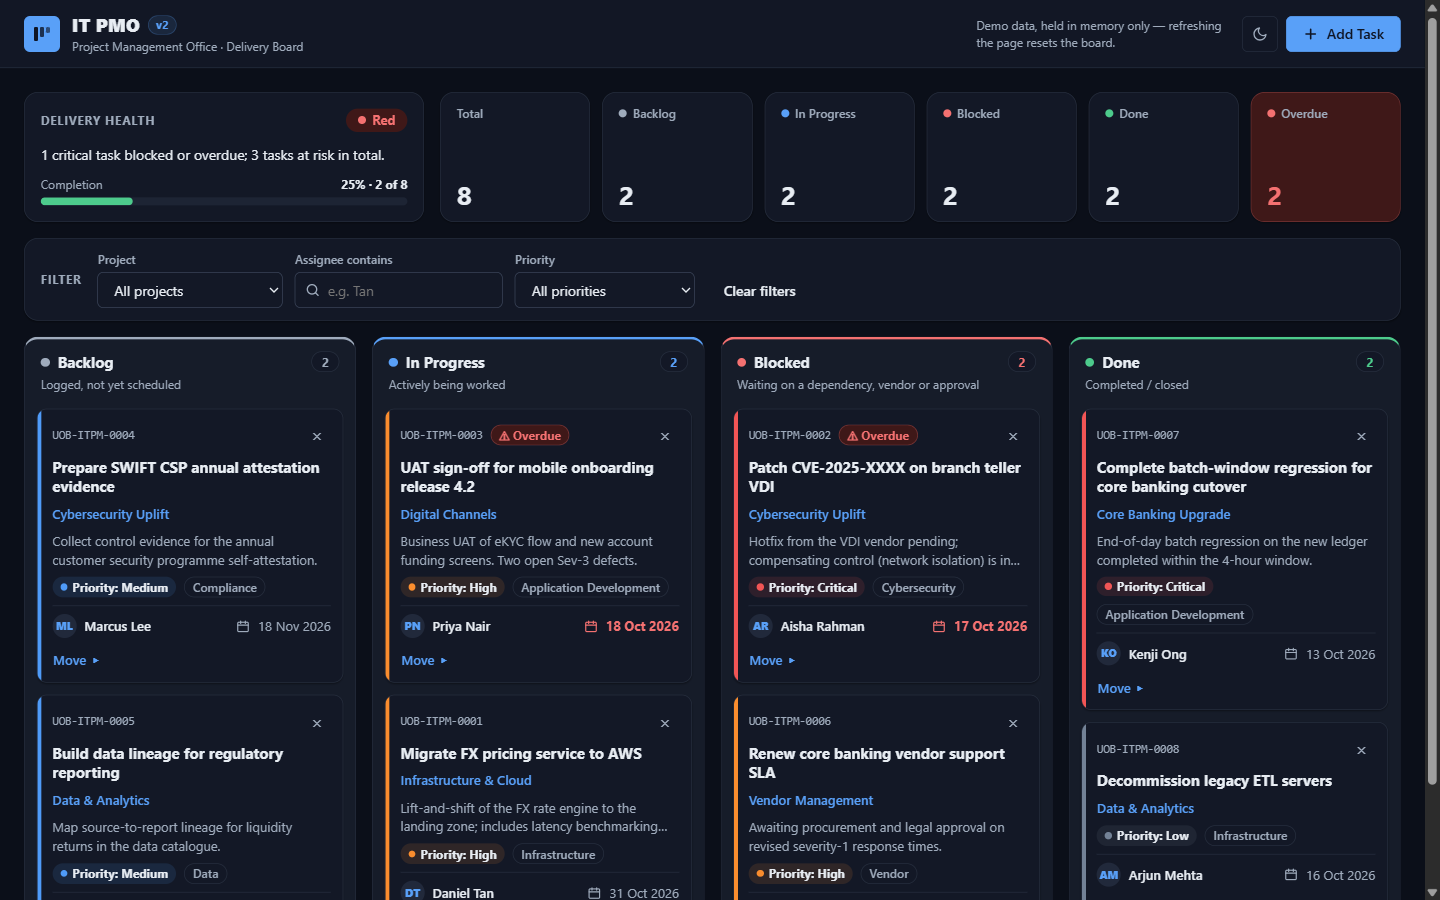
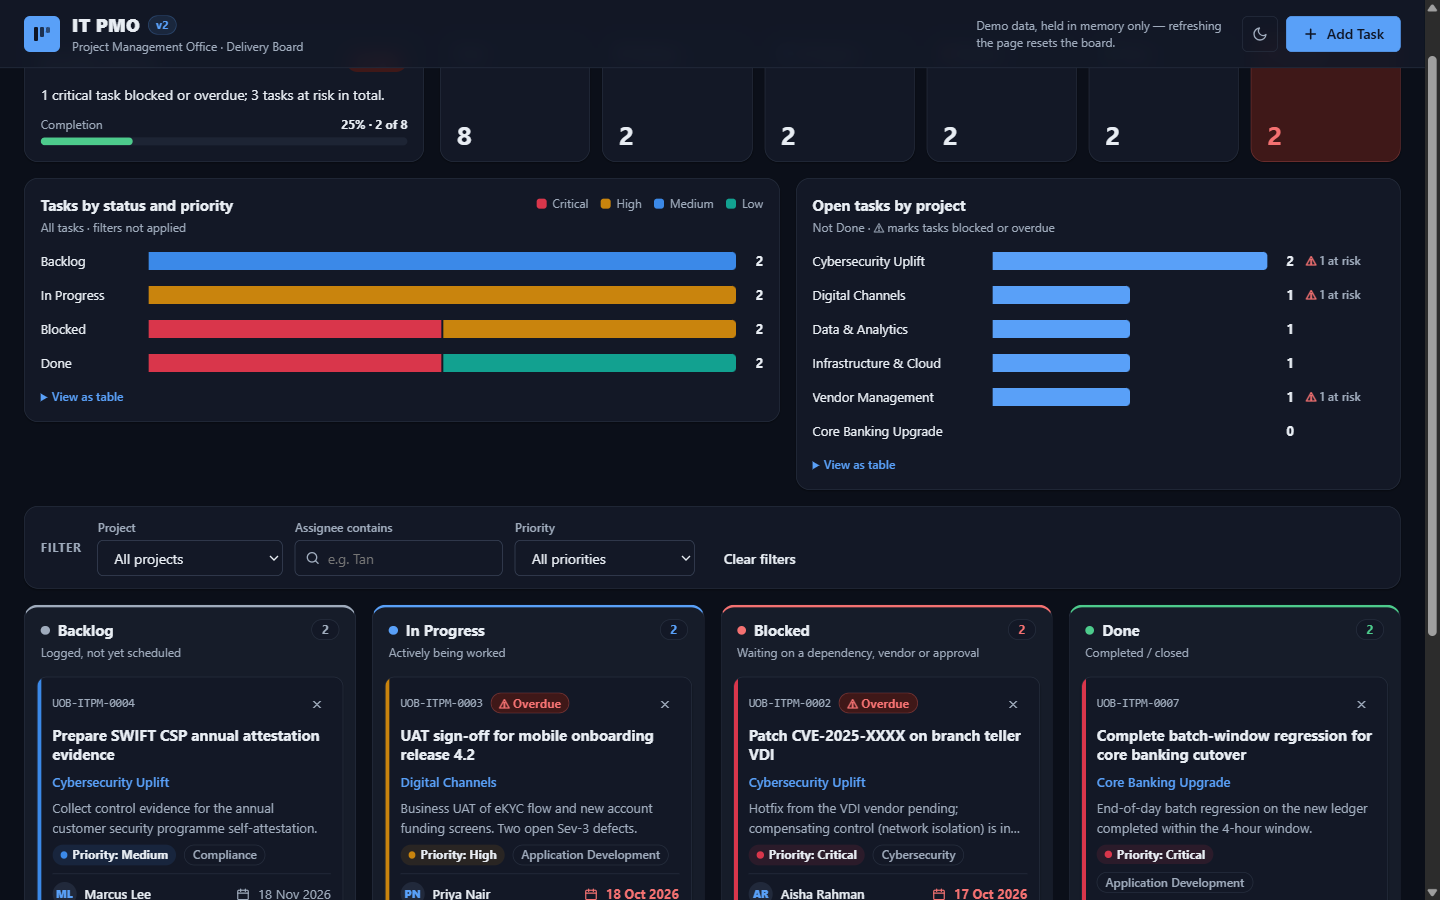
Add status summary charts to v2
Add two charts under the overview: tasks by status stacked by priority,
and open tasks by project with a blocked/overdue count. Plain HTML/CSS
bars on one shared grid, hover tooltips, aria-label summaries and a
"View as table" fallback. Retune the --prio-* tokens (Low is now teal;
dark steps re-stepped) so the shared card/chart palette passes the
lightness, chroma, CVD and contrast checks in both themes.

diff --git a/index.html b/index.html
@@ -31,11 +31,13 @@
   --warning: 30 90% 36%;      --warning-soft: 40 100% 92%;
   --success: 152 62% 30%;     --success-soft: 145 50% 92%;
 
-  /* Priority marks */
+  /* Priority marks — also the status chart's categorical palette, in this
+     fixed order (validated for lightness, chroma, CVD and contrast on the
+     card surface in both themes) */
   --prio-critical: 0 72% 48%;
   --prio-high: 28 92% 48%;
   --prio-medium: 213 72% 48%;
-  --prio-low: 215 14% 62%;
+  --prio-low: 173 58% 39%;
 
   /* Spacing scale */
   --space-1: 4px;
@@ -77,10 +79,10 @@
     --destructive: 0 85% 70%;   --destructive-soft: 0 45% 17%;
     --warning: 38 95% 62%;      --warning-soft: 38 50% 15%;
     --success: 150 55% 55%;     --success-soft: 150 40% 14%;
-    --prio-critical: 0 85% 64%;
-    --prio-high: 28 95% 58%;
-    --prio-medium: 213 92% 64%;
-    --prio-low: 215 14% 52%;
+    --prio-critical: 352 68% 53%;
+    --prio-high: 38 88% 42%;
+    --prio-medium: 213 79% 57%;
+    --prio-low: 173 80% 35%;
     --shadow-sm: 0 1px 2px hsl(0 0% 0% / 0.4);
     --shadow: 0 1px 3px hsl(0 0% 0% / 0.45), 0 4px 12px hsl(0 0% 0% / 0.3);
     --shadow-lg: 0 16px 40px hsl(0 0% 0% / 0.6);
@@ -105,10 +107,10 @@
   --destructive: 0 85% 70%;   --destructive-soft: 0 45% 17%;
   --warning: 38 95% 62%;      --warning-soft: 38 50% 15%;
   --success: 150 55% 55%;     --success-soft: 150 40% 14%;
-  --prio-critical: 0 85% 64%;
-  --prio-high: 28 95% 58%;
-  --prio-medium: 213 92% 64%;
-  --prio-low: 215 14% 52%;
+  --prio-critical: 352 68% 53%;
+  --prio-high: 38 88% 42%;
+  --prio-medium: 213 79% 57%;
+  --prio-low: 173 80% 35%;
   --shadow-sm: 0 1px 2px hsl(0 0% 0% / 0.4);
   --shadow: 0 1px 3px hsl(0 0% 0% / 0.45), 0 4px 12px hsl(0 0% 0% / 0.3);
   --shadow-lg: 0 16px 40px hsl(0 0% 0% / 0.6);
@@ -364,6 +366,84 @@ main { padding: var(--space-5) var(--space-5) var(--space-6); max-width: 1600px;
 .stat-overdue  { --stat: var(--warning); }
 .stat-overdue.is-alert { --stat: var(--destructive); background: hsl(var(--destructive-soft)); border-color: hsl(var(--destructive) / 0.3); }
 .stat-overdue.is-alert strong { color: hsl(var(--destructive)); }
+
+/* =====================================================================
+   4b. STATUS CHARTS — stacked bars (status × priority), project workload
+   ===================================================================== */
+.charts {
+  display: grid;
+  grid-template-columns: 1.25fr 1fr;
+  align-items: start;
+  gap: var(--space-4);
+  margin-bottom: var(--space-4);
+}
+.chart { display: flex; flex-direction: column; gap: var(--space-3); margin: 0; padding: var(--space-4); min-width: 0; }
+.chart-head { display: flex; flex-wrap: wrap; align-items: flex-start; justify-content: space-between; gap: var(--space-2) var(--space-4); }
+.chart-title { font-size: 15px; font-weight: 700; }
+.chart-sub { margin-top: 2px; font-size: 12px; color: hsl(var(--muted-foreground)); }
+.legend { display: flex; flex-wrap: wrap; gap: var(--space-1) var(--space-3); margin: 0; padding: 0; list-style: none; }
+.legend li { display: flex; align-items: center; gap: 6px; font-size: 12px; color: hsl(var(--muted-foreground)); }
+.swatch { width: 10px; height: 10px; border-radius: 3px; background: hsl(var(--prio)); }
+
+/* One shared grid per chart so every row's bar track has the same length */
+.bars {
+  display: grid;
+  grid-template-columns: 96px minmax(0, 1fr) auto;
+  align-items: center;
+  gap: var(--space-2) var(--space-3);
+  font-size: 13px;
+}
+.bars-project { grid-template-columns: minmax(110px, 168px) minmax(0, 1fr) auto minmax(78px, auto); }
+.bar-row { display: contents; }
+.bar-label { color: hsl(var(--foreground)); overflow: hidden; text-overflow: ellipsis; white-space: nowrap; }
+.bar-track { display: flex; align-items: center; height: 26px; }
+.bar {
+  display: flex;
+  gap: 2px;
+  height: 18px;
+  min-width: 0;
+  border-radius: 0 4px 4px 0;
+  overflow: hidden;
+  transition: width 300ms ease;
+}
+.seg { --prio: var(--prio-medium); min-width: 3px; height: 100%; background: hsl(var(--prio)); cursor: default; }
+.seg:last-child { border-radius: 0 4px 4px 0; }
+.seg:hover { filter: brightness(1.12); }
+.seg.prio-critical, .swatch.prio-critical { --prio: var(--prio-critical); }
+.seg.prio-high,     .swatch.prio-high     { --prio: var(--prio-high); }
+.seg.prio-medium,   .swatch.prio-medium   { --prio: var(--prio-medium); }
+.seg.prio-low,      .swatch.prio-low      { --prio: var(--prio-low); }
+.seg-open { --prio: var(--primary); }
+.bar-value { min-width: 2ch; font-weight: 700; font-variant-numeric: tabular-nums; text-align: right; white-space: nowrap; }
+.bar-note { font-size: 12px; font-weight: 600; color: hsl(var(--muted-foreground)); white-space: nowrap; }
+.bar-note .warn-icon { color: hsl(var(--destructive)); }
+
+.chart-table summary {
+  width: fit-content;
+  font-size: 12px;
+  font-weight: 600;
+  color: hsl(var(--primary));
+  cursor: pointer;
+}
+.table-wrap { overflow-x: auto; margin-top: var(--space-2); }
+.chart-table table { width: 100%; border-collapse: collapse; font-size: 13px; font-variant-numeric: tabular-nums; }
+.chart-table th, .chart-table td { padding: 4px var(--space-2); border-bottom: 1px solid hsl(var(--border)); text-align: right; white-space: nowrap; }
+.chart-table th:first-child, .chart-table td:first-child { text-align: left; }
+.chart-table thead th { font-size: 12px; color: hsl(var(--muted-foreground)); font-weight: 600; }
+
+.chart-tip {
+  position: fixed;
+  z-index: 60;
+  padding: 6px var(--space-2);
+  border: 1px solid hsl(var(--border));
+  border-radius: var(--radius-sm);
+  background: hsl(var(--card));
+  box-shadow: var(--shadow);
+  font-size: 12px;
+  pointer-events: none;
+  white-space: nowrap;
+}
+.chart-tip strong { font-variant-numeric: tabular-nums; }
 
 /* =====================================================================
    5. FILTER TOOLBAR
@@ -719,6 +799,9 @@ main { padding: var(--space-5) var(--space-5) var(--space-6); max-width: 1600px;
 @media (max-width: 1200px) {
   .overview { grid-template-columns: 1fr; }
 }
+@media (max-width: 1000px) {
+  .charts { grid-template-columns: 1fr; }
+}
 @media (max-width: 1100px) {
   .control { min-width: 150px; }
 }
@@ -731,6 +814,8 @@ main { padding: var(--space-5) var(--space-5) var(--space-6); max-width: 1600px;
   .stat strong { font-size: 22px; }
   .board { grid-template-columns: 1fr; }
   .column { min-height: 0; }
+  .bars { grid-template-columns: 84px minmax(0, 1fr) auto; gap: var(--space-2); }
+  .bars-project { grid-template-columns: 96px minmax(0, 1fr) auto auto; }
   .filters { flex-direction: column; align-items: stretch; }
   .filters h2 { align-self: flex-start; }
   .control { min-width: 0; width: 100%; }
@@ -808,6 +893,45 @@ main { padding: var(--space-5) var(--space-5) var(--space-6); max-width: 1600px;
       <li class="stat stat-done"><span>Done</span> <strong id="sum-done">0</strong></li>
       <li class="stat stat-overdue" id="stat-overdue"><span>Overdue</span> <strong id="sum-overdue">0</strong></li>
     </ul>
+  </section>
+
+  <!-- ===================================================================
+       STATUS CHARTS — rendered by renderCharts() from all tasks (unfiltered)
+       =================================================================== -->
+  <section class="charts" aria-label="Status charts">
+    <figure class="panel chart" aria-labelledby="chart-status-title">
+      <div class="chart-head">
+        <figcaption>
+          <h2 class="chart-title" id="chart-status-title">Tasks by status and priority</h2>
+          <p class="chart-sub">All tasks · filters not applied</p>
+        </figcaption>
+        <ul class="legend" aria-label="Priority">
+          <li><span class="swatch prio-critical" aria-hidden="true"></span>Critical</li>
+          <li><span class="swatch prio-high" aria-hidden="true"></span>High</li>
+          <li><span class="swatch prio-medium" aria-hidden="true"></span>Medium</li>
+          <li><span class="swatch prio-low" aria-hidden="true"></span>Low</li>
+        </ul>
+      </div>
+      <div class="bars" id="chart-status" role="img"></div>
+      <details class="chart-table">
+        <summary>View as table</summary>
+        <div class="table-wrap" id="table-status"></div>
+      </details>
+    </figure>
+
+    <figure class="panel chart" aria-labelledby="chart-project-title">
+      <div class="chart-head">
+        <figcaption>
+          <h2 class="chart-title" id="chart-project-title">Open tasks by project</h2>
+          <p class="chart-sub">Not Done · ⚠ marks tasks blocked or overdue</p>
+        </figcaption>
+      </div>
+      <div class="bars bars-project" id="chart-project" role="img"></div>
+      <details class="chart-table">
+        <summary>View as table</summary>
+        <div class="table-wrap" id="table-project"></div>
+      </details>
+    </figure>
   </section>
 
   <!-- ===================================================================
@@ -969,6 +1093,9 @@ main { padding: var(--space-5) var(--space-5) var(--space-6); max-width: 1600px;
     </form>
   </div>
 </div>
+
+<!-- Chart hover tooltip (decorative duplicate of the table views) -->
+<div class="chart-tip" id="chart-tip" hidden aria-hidden="true"></div>
 
 <!-- Toast region: announced politely to screen readers -->
 <div class="toasts" id="toasts" aria-live="polite" aria-atomic="false"></div>
@@ -1170,7 +1297,6 @@ function computeHealth(tasks) {
   const open = tasks.filter((t) => t.status !== "Done");
   const atRisk = open.filter((t) => t.status === "Blocked" || isOverdue(t));
   const critical = atRisk.filter((t) => t.priority === "Critical");
-  const plural = (n, word) => `${n} ${word}${n === 1 ? "" : "s"}`;
 
   if (critical.length) {
     return { level: "red", label: "Red", reason: `${plural(critical.length, "critical task")} blocked or overdue; ${plural(atRisk.length, "task")} at risk in total.` };
@@ -1180,6 +1306,93 @@ function computeHealth(tasks) {
   }
   return { level: "green", label: "Green", reason: open.length ? "On track — nothing blocked or overdue." : "All tasks are done." };
 }
+
+/* =======================================================================
+   7b. STATUS CHARTS — horizontal bars over all tasks (ignores filters).
+       Status chart: one bar per column, stacked by priority in PRIORITIES
+       order. Project chart: open (not Done) tasks per project, one hue,
+       with the blocked/overdue count as an icon + text note.
+   ======================================================================= */
+const plural = (n, word) => `${n} ${word}${n === 1 ? "" : "s"}`;
+
+function renderTable(headers, rows) {
+  const head = headers.map((h) => `<th scope="col">${escapeHtml(h)}</th>`).join("");
+  const body = rows.map((r) =>
+    `<tr>${r.map((c, i) => (i === 0 ? `<th scope="row">${escapeHtml(c)}</th>` : `<td>${escapeHtml(c)}</td>`)).join("")}</tr>`
+  ).join("");
+  return `<table><thead><tr>${head}</tr></thead><tbody>${body}</tbody></table>`;
+}
+
+function renderCharts(tasks) {
+  // Status × priority
+  const statusRows = STATUSES.map((status) => {
+    const inStatus = tasks.filter((t) => t.status === status);
+    return { status, total: inStatus.length, counts: PRIORITIES.map((p) => inStatus.filter((t) => t.priority === p).length) };
+  });
+  const statusMax = Math.max(1, ...statusRows.map((r) => r.total));
+  const statusEl = document.getElementById("chart-status");
+  statusEl.innerHTML = statusRows.map((r) => {
+    const segs = r.counts.map((n, i) => n
+      ? `<span class="seg prio-${PRIORITIES[i].toLowerCase()}" style="flex-grow:${n}" data-tip="${escapeHtml(`${r.status} · ${PRIORITIES[i]}|${n} of ${r.total}`)}"></span>`
+      : "").join("");
+    return `<div class="bar-row">
+        <span class="bar-label">${escapeHtml(r.status)}</span>
+        <div class="bar-track"><div class="bar" style="width:${(r.total / statusMax) * 100}%">${segs}</div></div>
+        <span class="bar-value">${r.total}</span>
+      </div>`;
+  }).join("");
+  statusEl.setAttribute("aria-label", "Tasks by status and priority. " + statusRows.map((r) =>
+    `${r.status}: ${r.total} (${r.counts.map((n, i) => `${PRIORITIES[i]} ${n}`).join(", ")})`).join("; "));
+  document.getElementById("table-status").innerHTML = renderTable(
+    ["Status", ...PRIORITIES, "Total"],
+    statusRows.map((r) => [r.status, ...r.counts, r.total])
+  );
+
+  // Open tasks by project, largest first (ties keep PROJECTS order)
+  const projectRows = PROJECTS.map((project) => {
+    const open = tasks.filter((t) => t.project === project && t.status !== "Done");
+    return { project, open: open.length, atRisk: open.filter((t) => t.status === "Blocked" || isOverdue(t)).length };
+  }).sort((a, b) => b.open - a.open);
+  const projectMax = Math.max(1, ...projectRows.map((r) => r.open));
+  const projectEl = document.getElementById("chart-project");
+  projectEl.innerHTML = projectRows.map((r) => {
+    const note = r.atRisk
+      ? `<span class="bar-note"><span class="warn-icon" aria-hidden="true">⚠</span> ${r.atRisk} at risk</span>`
+      : `<span class="bar-note"></span>`;
+    const seg = r.open
+      ? `<span class="seg seg-open" style="flex-grow:1" data-tip="${escapeHtml(`${r.project}|${plural(r.open, "open task")}${r.atRisk ? `, ${r.atRisk} at risk` : ""}`)}"></span>`
+      : "";
+    return `<div class="bar-row">
+        <span class="bar-label" title="${escapeHtml(r.project)}">${escapeHtml(r.project)}</span>
+        <div class="bar-track"><div class="bar" style="width:${(r.open / projectMax) * 100}%">${seg}</div></div>
+        <span class="bar-value">${r.open}</span>
+        ${note}
+      </div>`;
+  }).join("");
+  projectEl.setAttribute("aria-label", "Open tasks by project. " + projectRows.map((r) =>
+    `${r.project}: ${r.open} open${r.atRisk ? `, ${r.atRisk} at risk` : ""}`).join("; "));
+  document.getElementById("table-project").innerHTML = renderTable(
+    ["Project", "Open", "At risk"],
+    projectRows.map((r) => [r.project, r.open, r.atRisk])
+  );
+}
+
+// One shared tooltip for every bar segment. data-tip is "title|value".
+const chartTip = document.getElementById("chart-tip");
+const chartsEl = document.querySelector(".charts");
+
+chartsEl.addEventListener("pointermove", (event) => {
+  const seg = event.target.closest("[data-tip]");
+  if (!seg) { chartTip.hidden = true; return; }
+  const [title, value] = seg.dataset.tip.split("|");
+  chartTip.replaceChildren(document.createTextNode(`${title}: `), Object.assign(document.createElement("strong"), { textContent: value }));
+  chartTip.hidden = false;
+  const pad = 12;
+  const { offsetWidth: w, offsetHeight: h } = chartTip;
+  chartTip.style.left = `${Math.min(event.clientX + pad, window.innerWidth - w - pad)}px`;
+  chartTip.style.top = `${Math.max(pad, event.clientY - h - pad)}px`;
+});
+chartsEl.addEventListener("pointerleave", () => { chartTip.hidden = true; });
 
 /* =======================================================================
    8. RENDERING — renderBoard() is the only writer of card markup
@@ -1278,6 +1491,8 @@ function renderSummary() {
   document.getElementById("progress-text").textContent = `${pct}% · ${done} of ${total}`;
   document.getElementById("progress").setAttribute("aria-valuenow", String(pct));
   document.getElementById("progress-bar").style.width = `${pct}%`;
+
+  renderCharts(state.tasks);
 }
 
 /**

diff --git a/CLAUDE.md b/CLAUDE.md
@@ -35,6 +35,7 @@ The only expected hit is the `FORMSUBMIT_ENDPOINT` line.
 - **Add Task flow (`handleSubmit`):** `validateForm()` → inline errors with `aria-invalid` → `addTask()` adds the card straight away (optimistic) → form reset and success toast → `setSending(true)` → `await notifyNewTask()` in try/catch (a failure shows the warning toast "Card added locally — email notification failed") → `setSending(false)`. The modal stays open after submit.
 - **v2 theming:** colours are shadcn-style semantic tokens stored as H S L triples (`--primary: 213 72% 36%`, used as `hsl(var(--primary))`). Dark values are defined twice: under `@media (prefers-color-scheme: dark)` guarded by `:root:not([data-theme="light"])`, and under `:root[data-theme="dark"]`. Keep both blocks in sync. The app-bar toggle only sets `data-theme` on `<html>` (in memory, never stored).
 - **Delivery health:** `computeHealth()` (called from `renderSummary()`, unfiltered) returns red when a Critical task is blocked or overdue, amber when any other open task is, and green otherwise. The completion bar is Done ÷ Total.
+- **Status charts:** `renderCharts()` (called from `renderSummary()`, unfiltered) rebuilds `#chart-status` (bars stacked by priority in `PRIORITIES` order) and `#chart-project` (open tasks per project, sorted by count) as HTML/CSS bars, with a spoken summary in each `aria-label` and a table in "View as table". `.bars` is one grid per chart and `.bar-row` uses `display: contents`, so every bar track is the same length. `--prio-*` doubles as the chart palette; re-run the dataviz validator if you change it. One shared `#chart-tip` reads `data-tip="title|value"`.
 - **Vocabularies:** `STATUSES`, `PRIORITIES`, `PROJECTS`, `CATEGORIES` and `LIMITS` are defined once and used to fill the selects at `init()`. The four board columns are hard-coded in the markup (`data-status` must match `STATUSES`).
 
 ## FormSubmit

diff --git a/README.md b/README.md
@@ -26,6 +26,7 @@ This is the **v2 redesign**. The original v1 is still at [it-pmo-kanban](https:/
 - **Redesigned UI** using semantic design tokens (`--background`, `--card`, `--primary`, `--muted`, …) in the shadcn/ui style, rebuilt in plain CSS custom properties.
 - **Light and dark themes.** The board follows your OS setting, and the app-bar toggle switches theme for the current visit only (nothing is stored).
 - **Delivery health panel** with a red/amber/green status: red when a Critical task is blocked or overdue, amber when anything else is, green otherwise. A completion bar sits underneath.
+- **Status charts:** *Tasks by status and priority* (one stacked bar per column, split by priority) and *Open tasks by project* (with a ⚠ count of blocked or overdue tasks). Both use all tasks, show a tooltip on hover and have a "View as table" option. The priority colours were checked with a colour-blindness and contrast validator in both themes.
 - **KPI tiles** for each column and for overdue tasks. The Overdue tile turns red when any task is overdue.
 - **Refreshed cards:** priority stripe and dot, assignee initials avatar, and a calendar due date that turns red when overdue.
 
